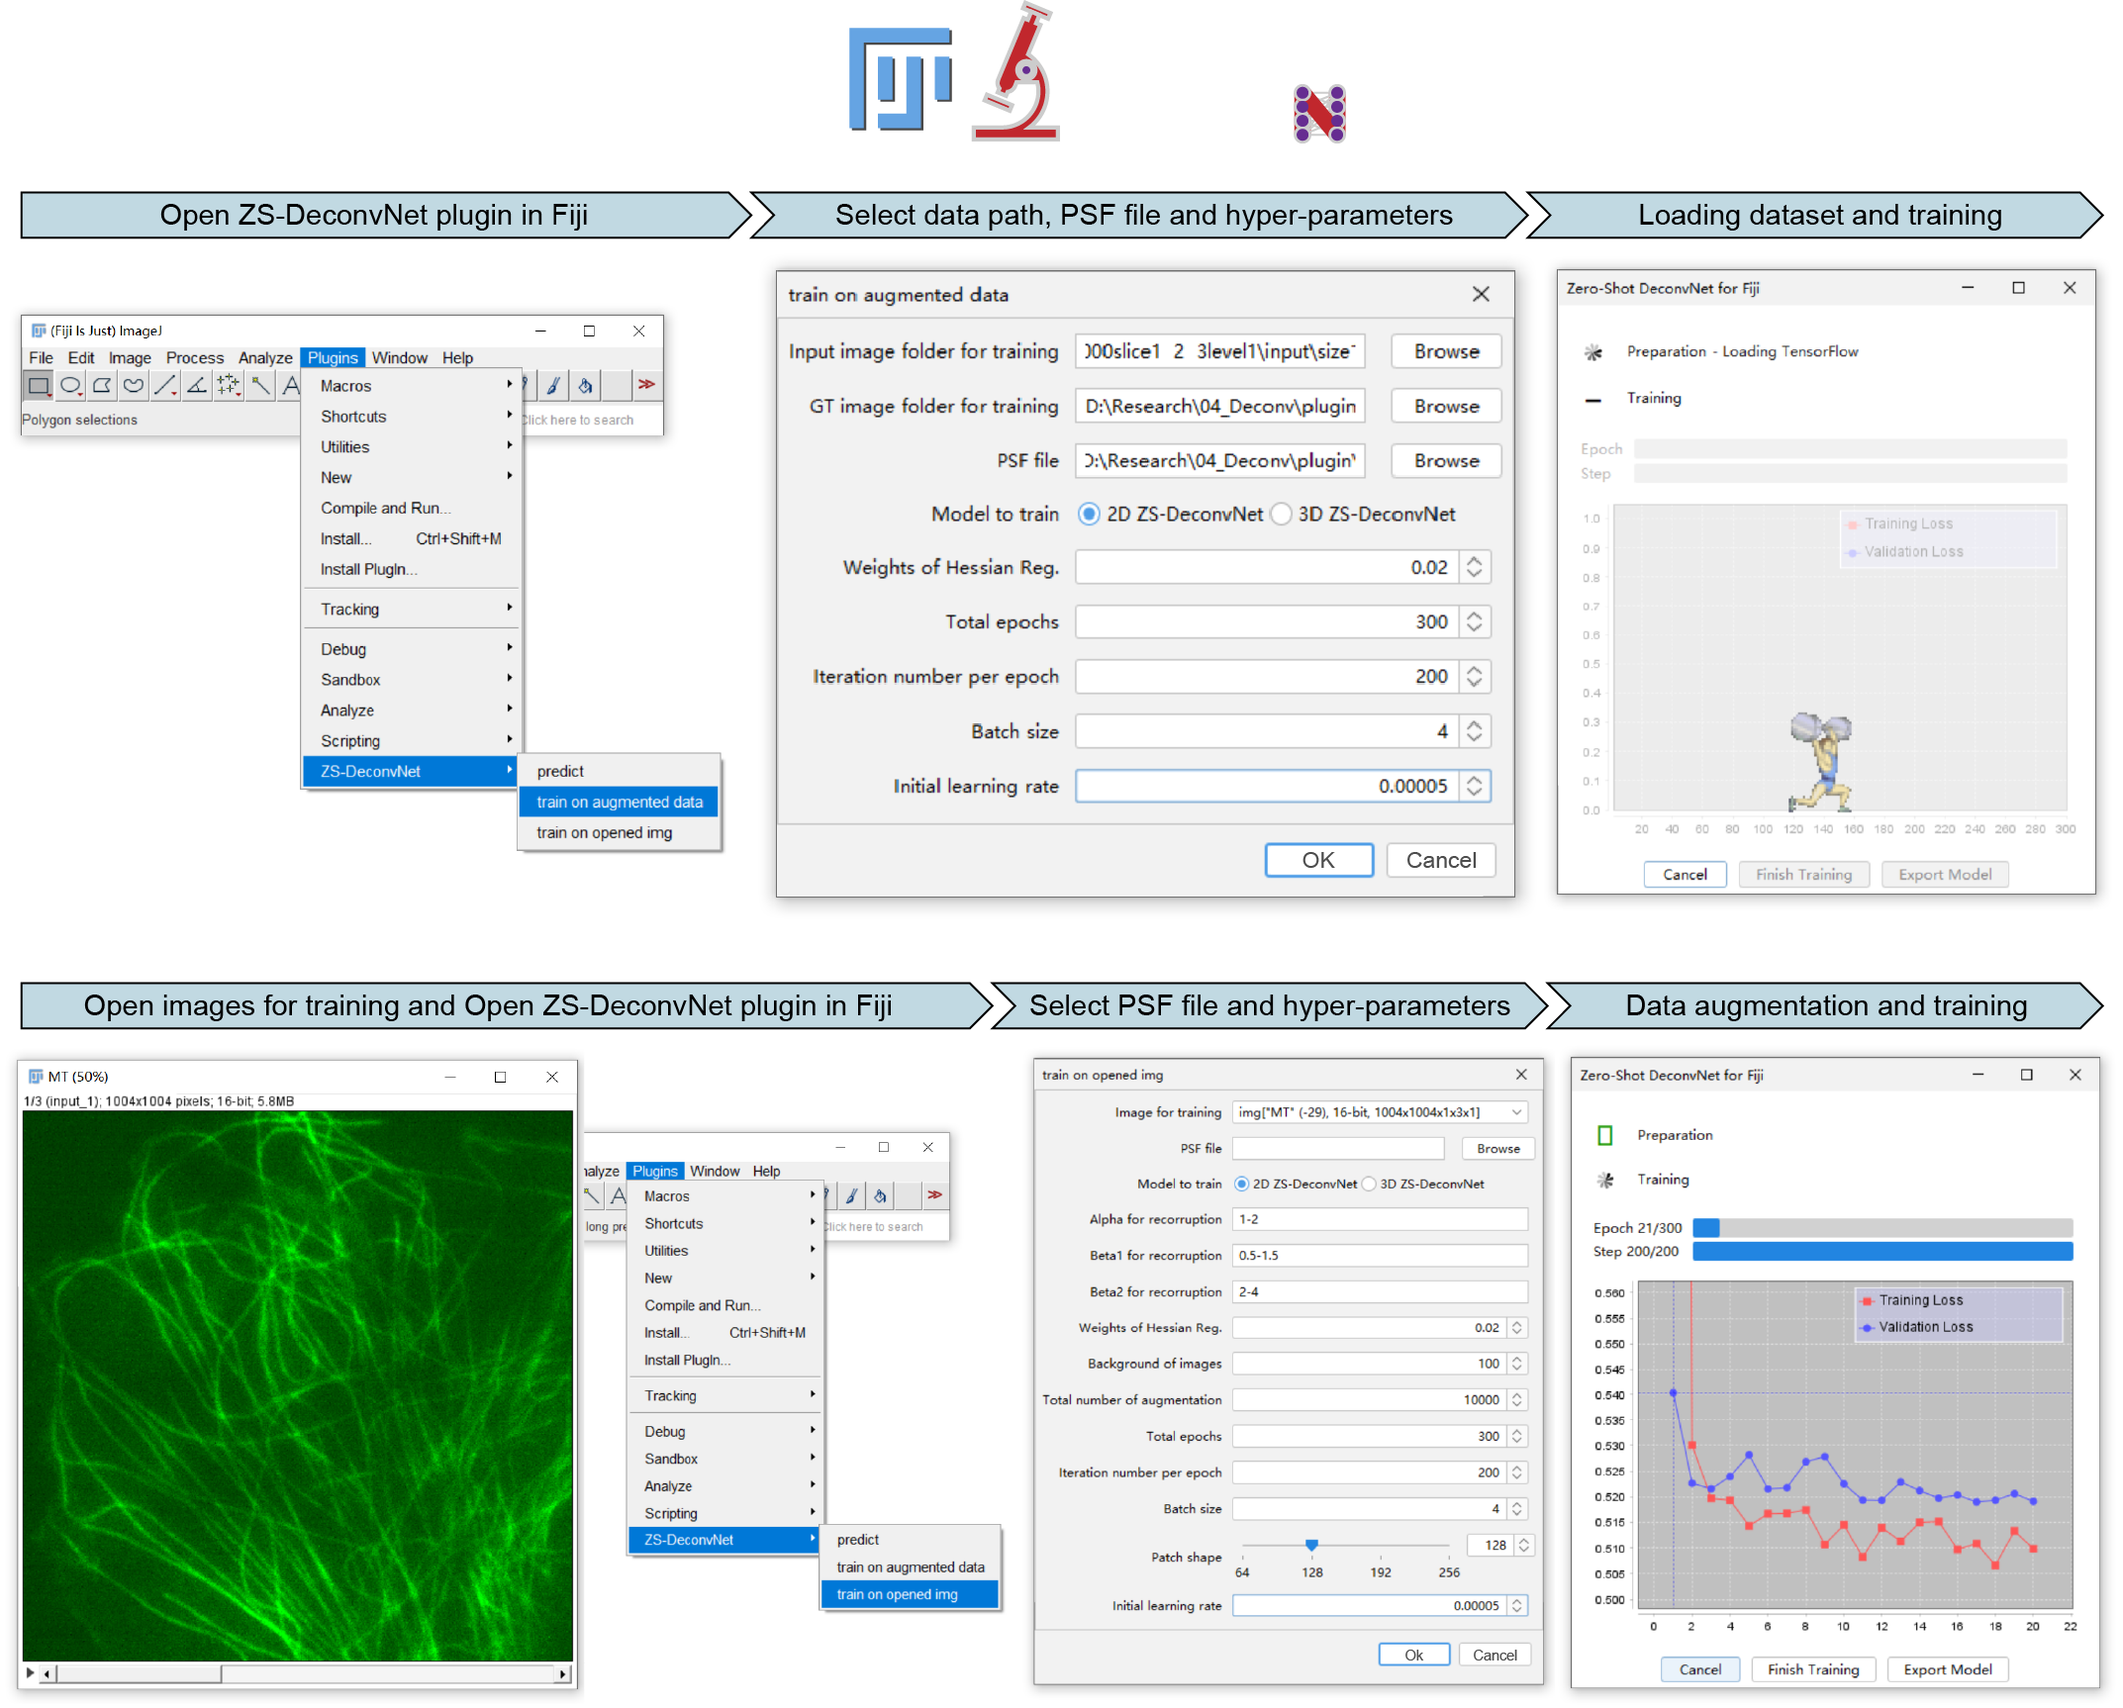
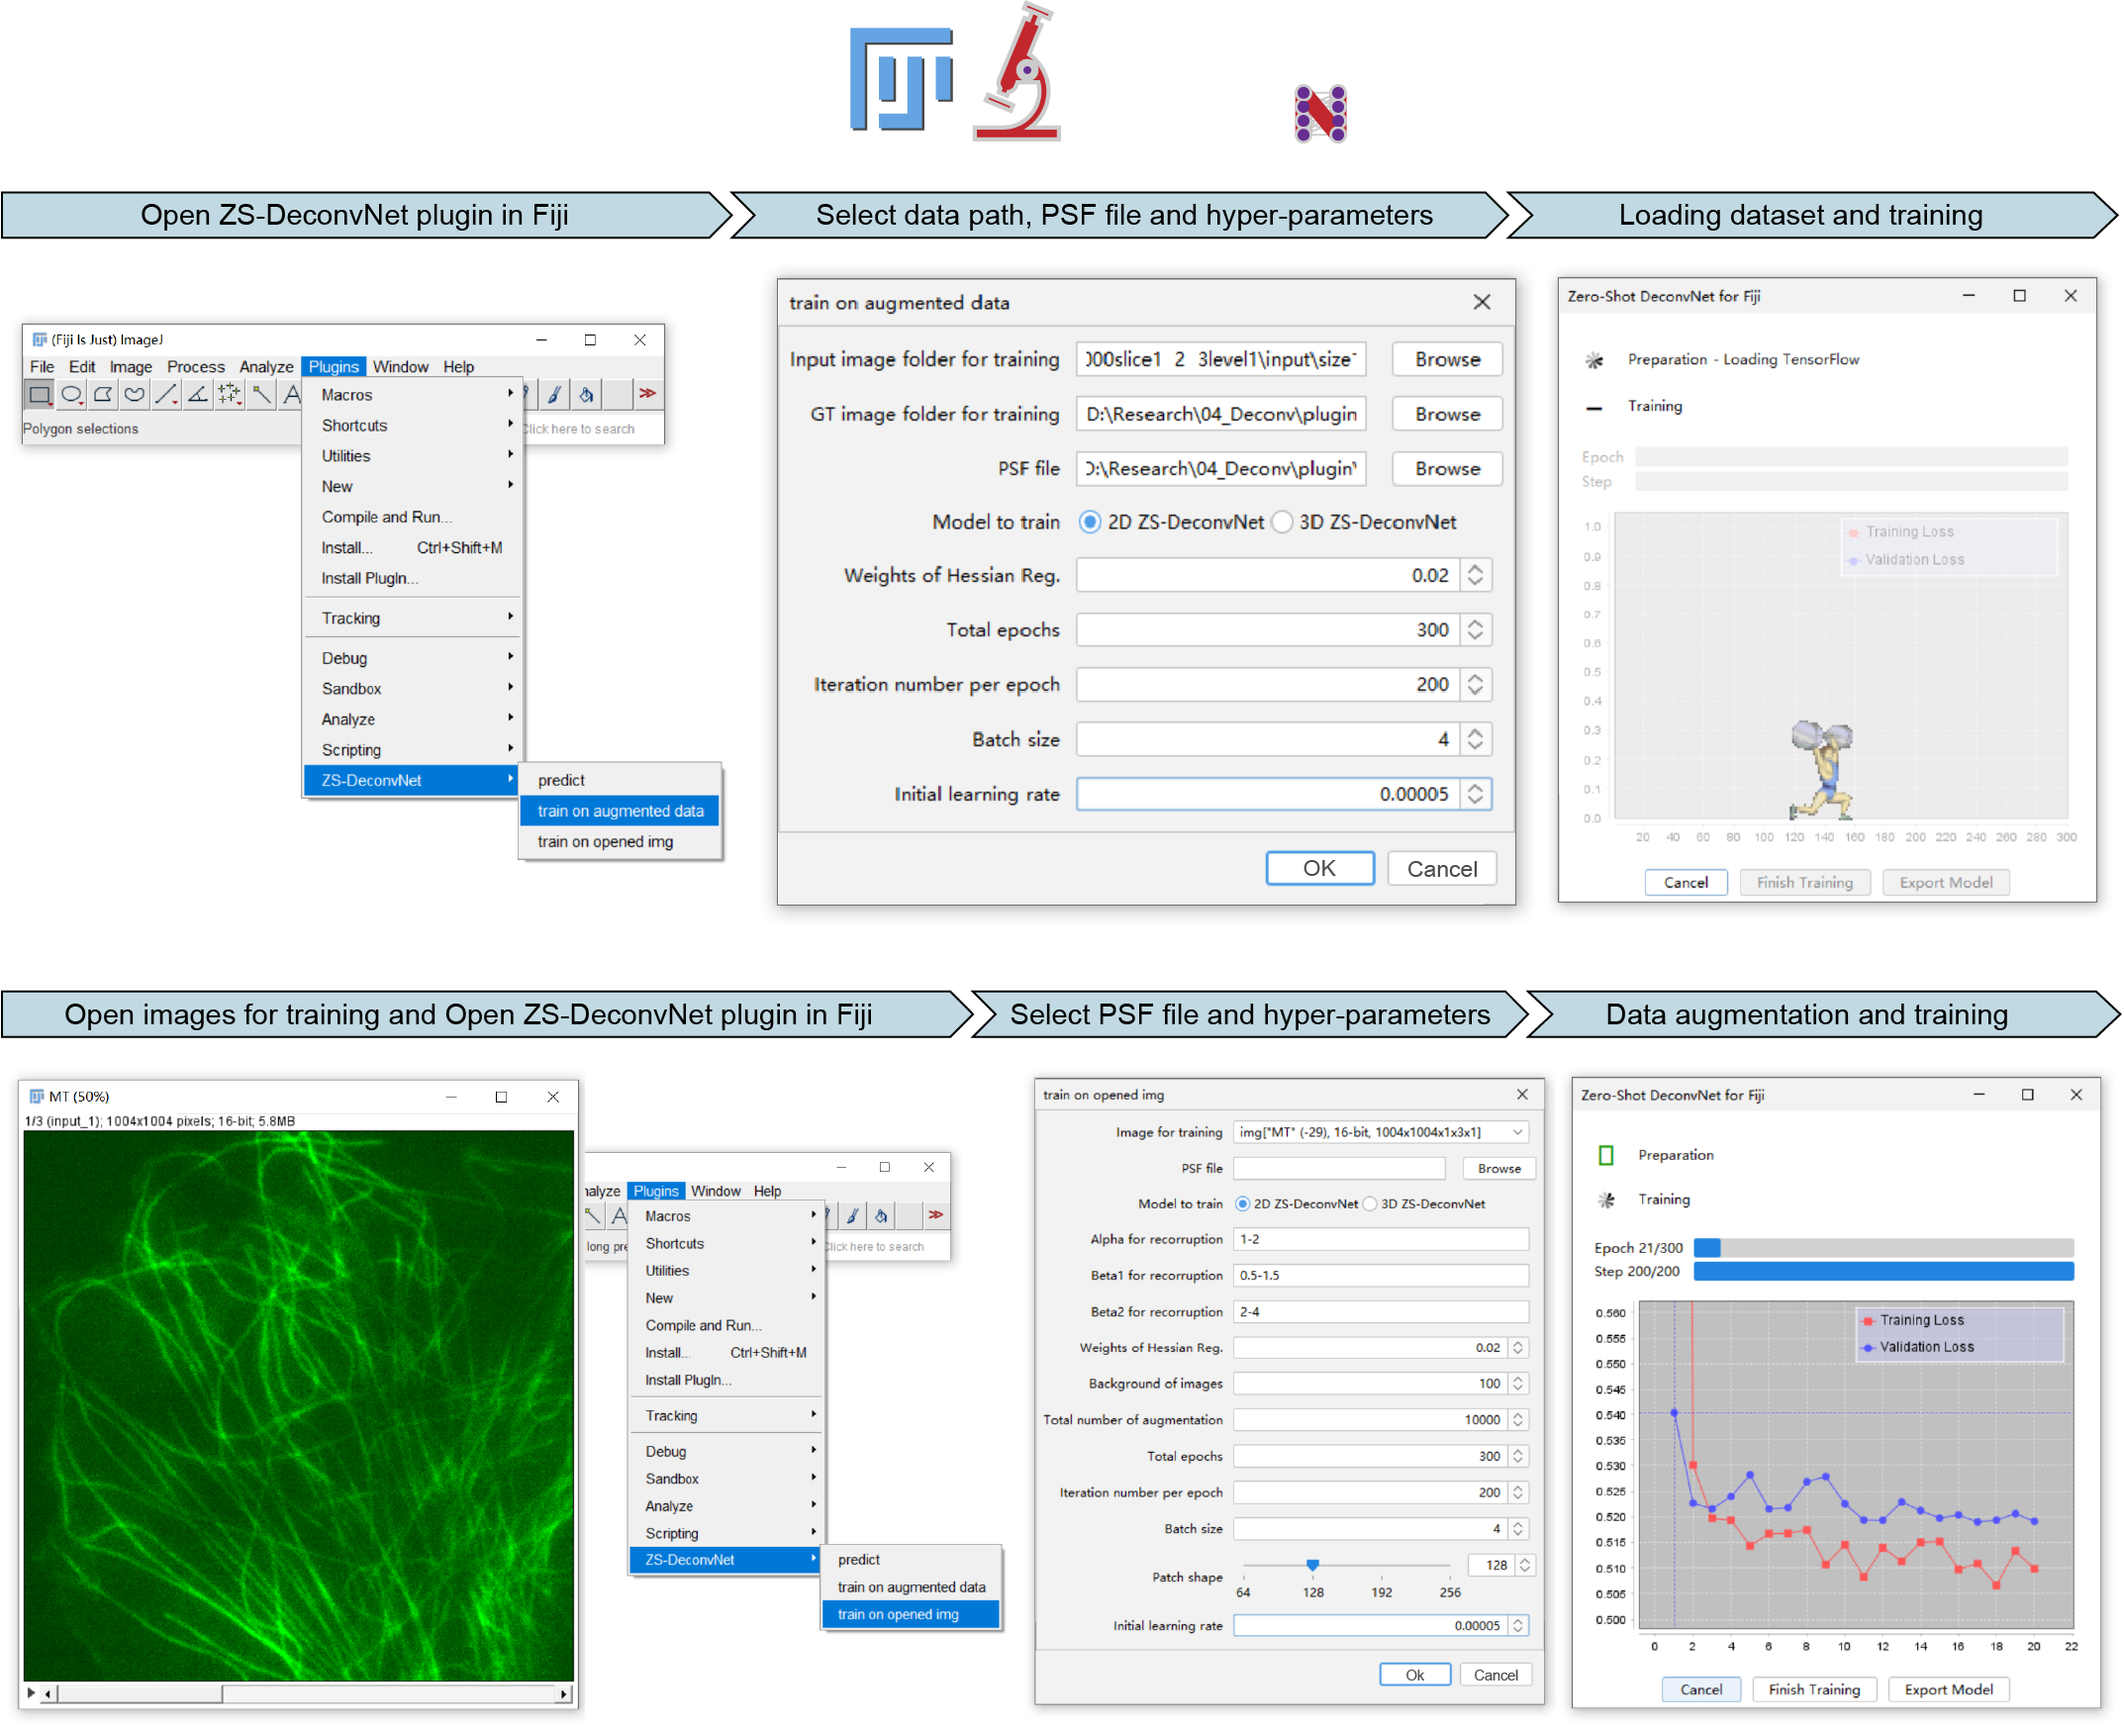
fiji fig

diff --git a/Tutorial.md b/Tutorial.md
@@ -172,7 +172,7 @@ Given a pre-trained ZS-DeconvNet model and an image or stack to be processed, th
 
 + <p>After image processing with status bar shown in the message box (if select Show process dialog), the denoised (if select Show denoising result) and deconvolved output will pop out in separate Fiji windows automatically. Then the processed images or stacks could be viewed, manipulated, and saved via Fiji.</p>
 
-<center><img src="https://github.com/TristaZeng/ZS-DeconvNet/blob/master/images/SuppFig17_Fiji_Plugin_v2_white_logo.png?raw=true" width="700" align="middle" /></center>
+<center><img src="https://github.com/TristaZeng/ZS-DeconvNet/blob/master/images/SuppFig17_Fiji_Plugin_v2_white_logo.png?raw=true" width="900" align="middle" /></center>
 
 <h3 style="color:white;">4.4 Training with ZS-DeconvNet Fiji plugin</h3>
 
@@ -207,5 +207,5 @@ The overall workflow of ZS-DeconvNet training with Fiji plugin includes followin
   (iii) If you have finished training, in <i>Overview > Metadata > inputs & outputs > Training</i>, you will see the parameters of the trained model. Press <i>Export Model</i> and save the model by <i>File actions > Save to..</i>.
   
   Of note, you can also press <i>Export Model</i> during training to export the lastest saved model without disposing the training progress.
-  
-<center><img src="https://github.com/TristaZeng/ZS-DeconvNet/blob/master/images/SuppFig16_Fiji_Plugin_Training_v1_whiteBG.png?raw=true" width="700" align="middle" /></center>
+
+<center><img src="https://github.com/TristaZeng/ZS-DeconvNet/blob/master/images/SuppFig16_Fiji_Plugin_Training_v1_whiteBG.png?raw=true" width="900" align="middle" /></center>
